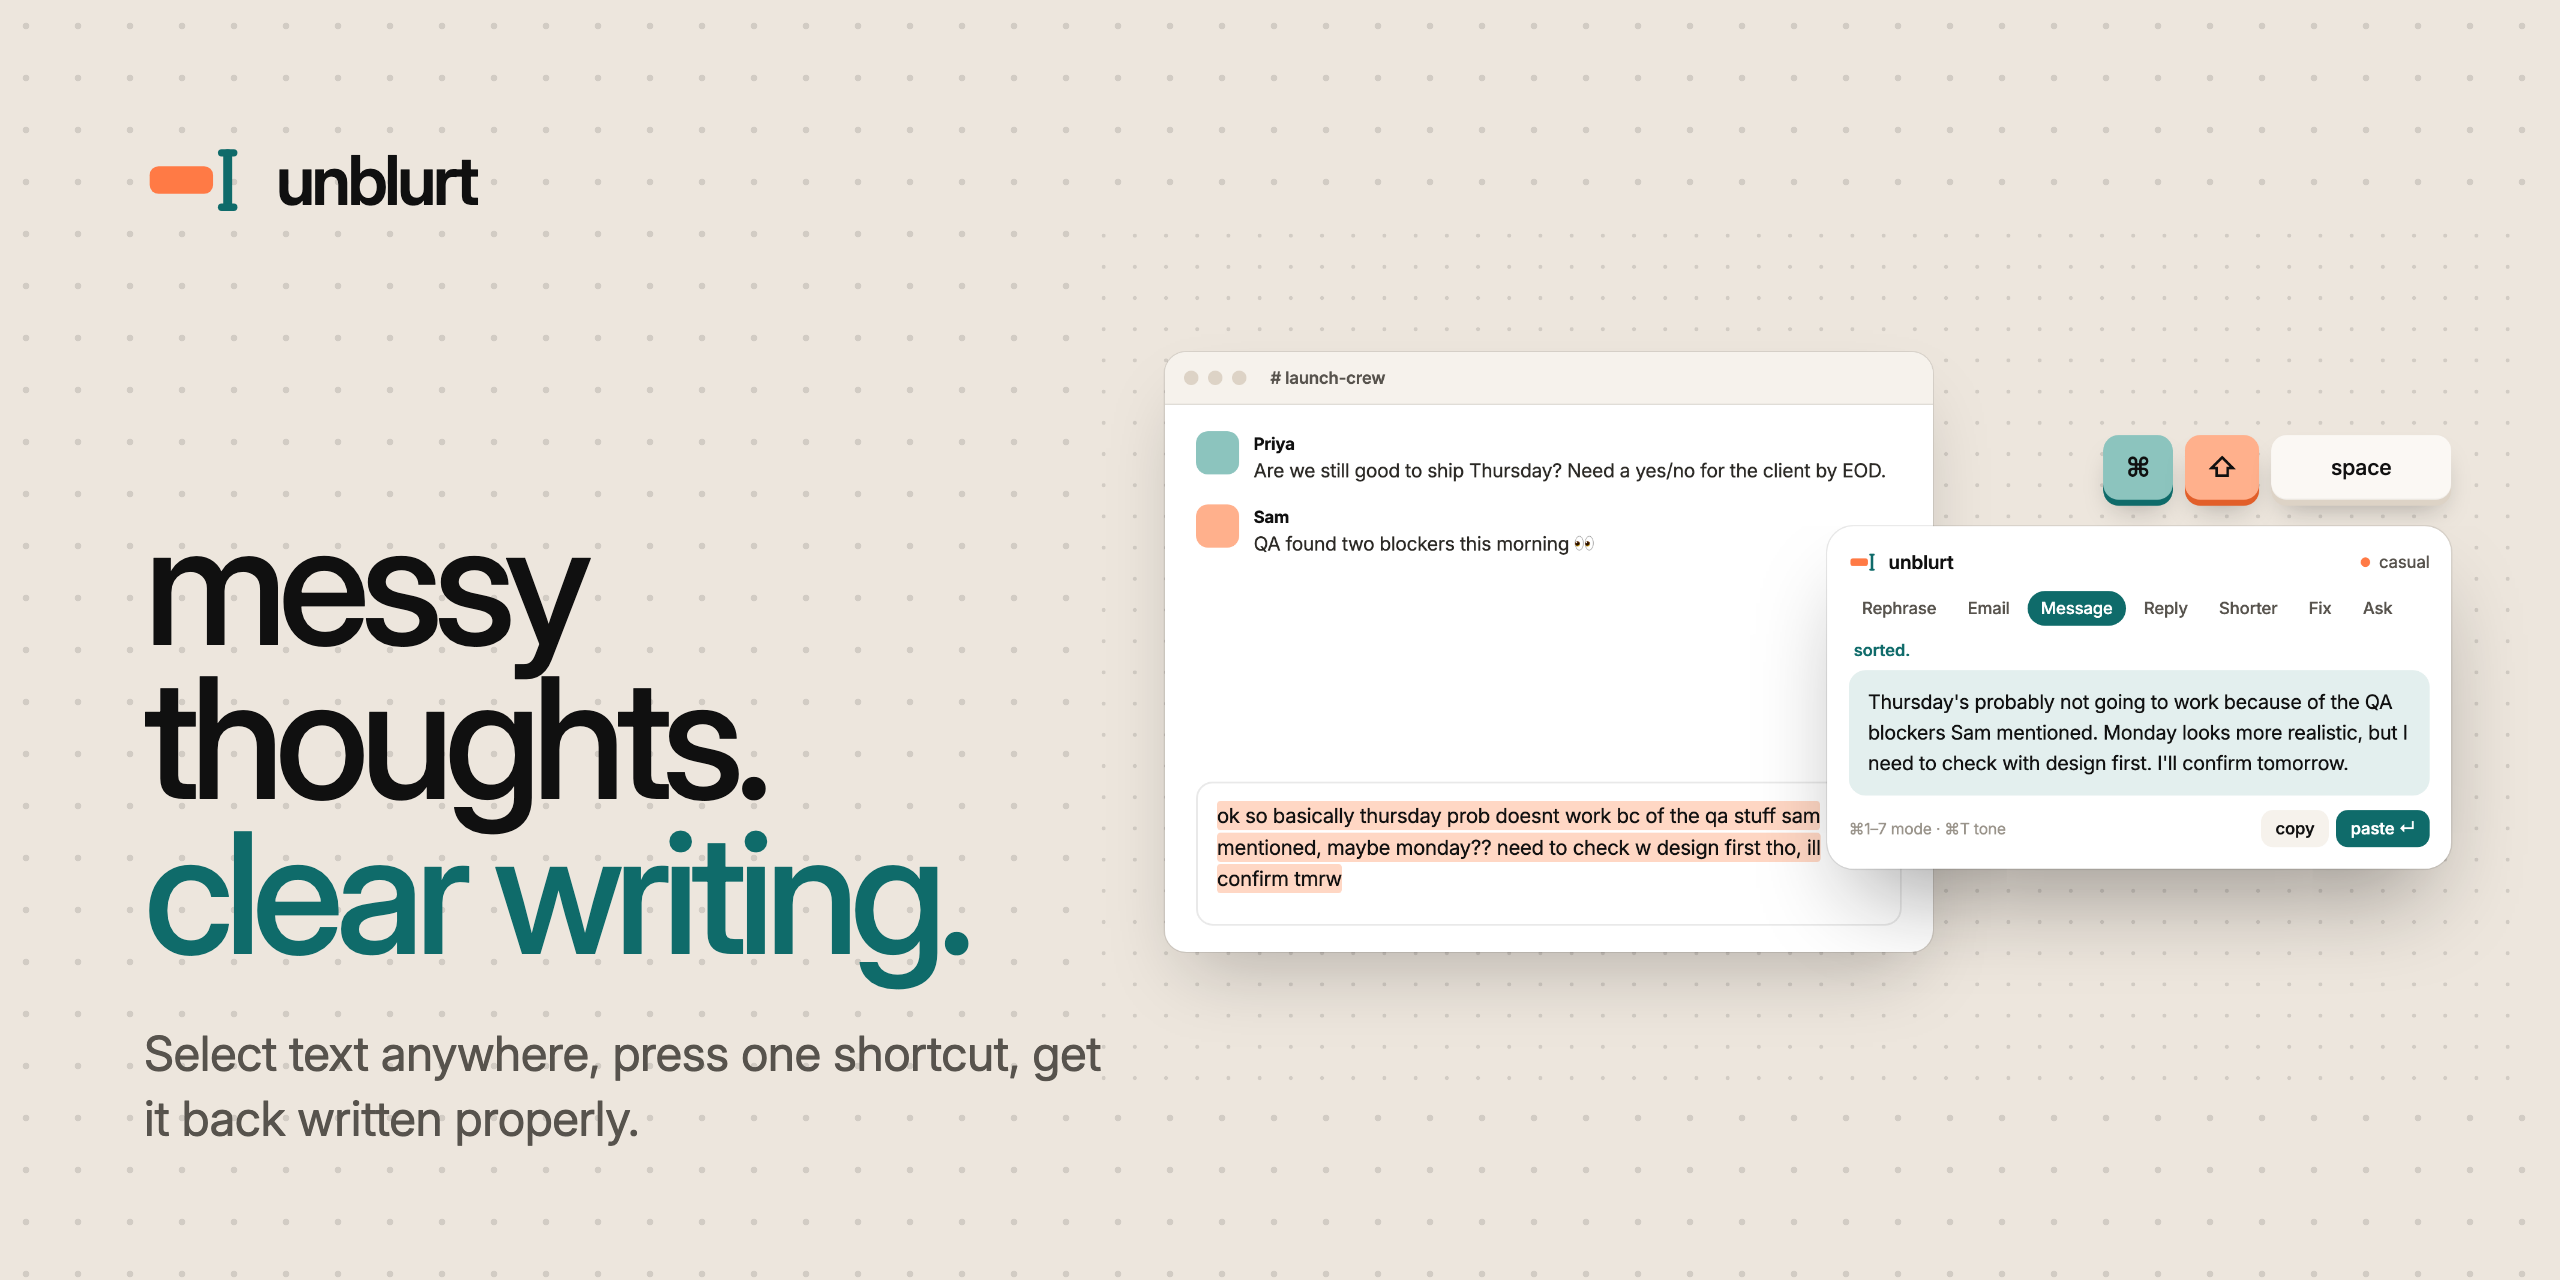
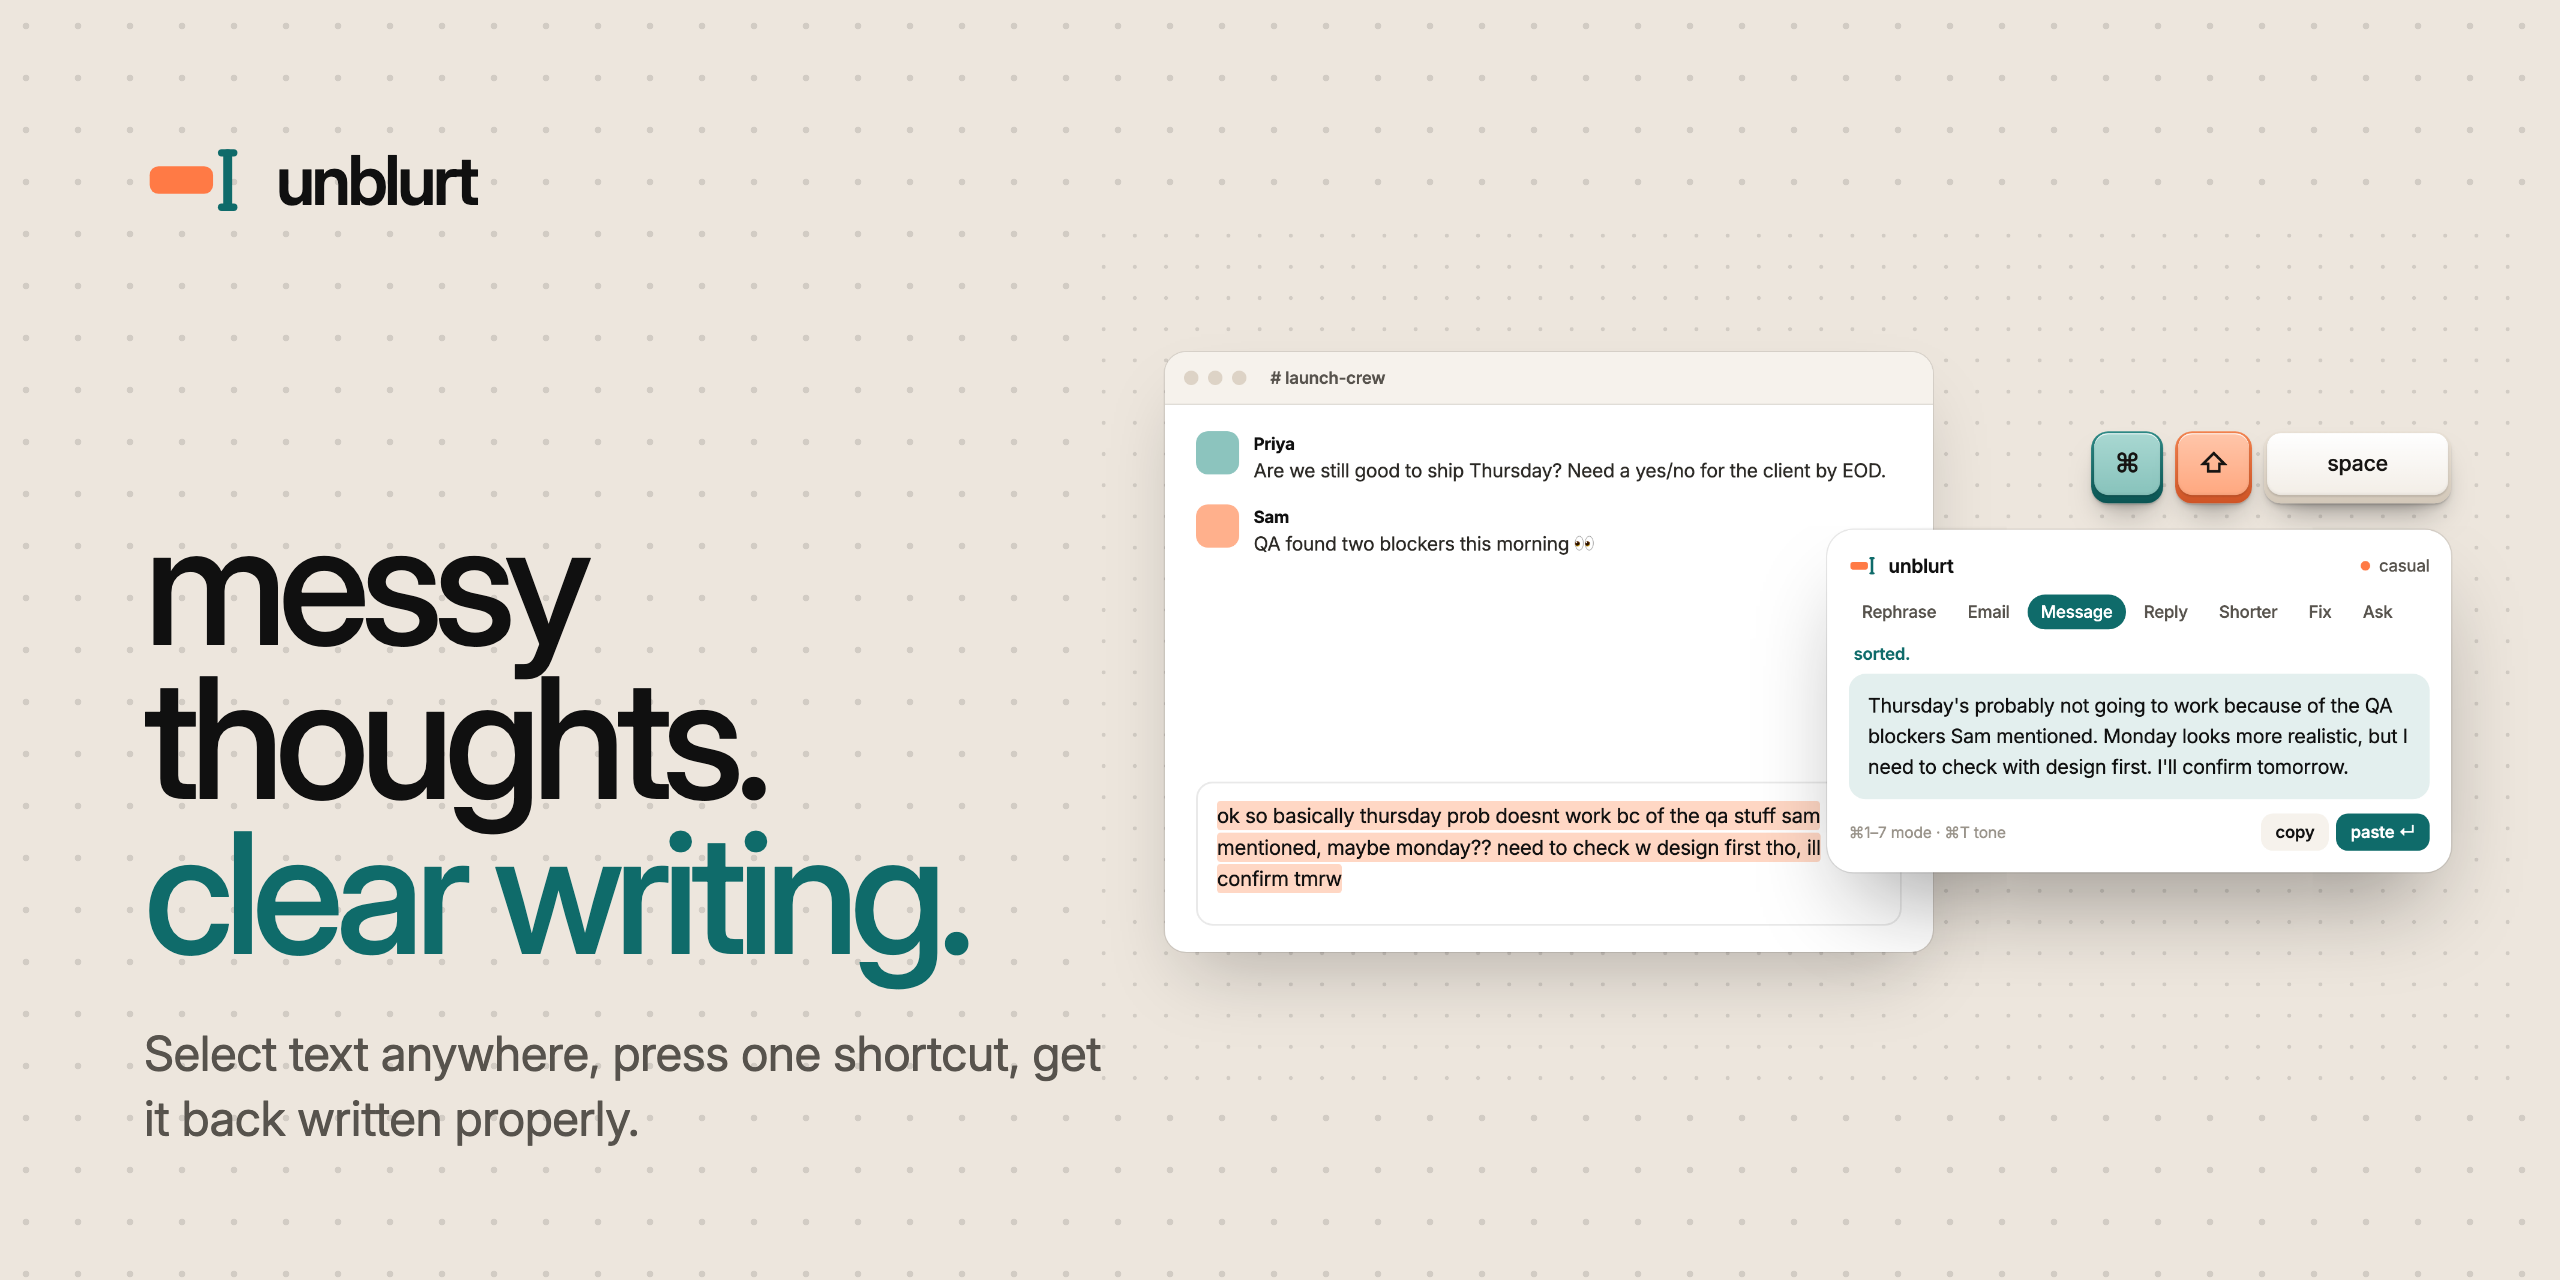
Site: one keycap style everywhere, scroll hint that never overlaps, polish
- All shortcut keys use the hero keycap style: the How it works steps use the
  full keys; inline keys (modes, download steps, FAQ) are a small version of
  them; the keys drawn in the product shots were re-rendered to match.
- Scroll hint: appears when the story scene locks in place, stays through the
  whole (now longer) opening beat, and leaves exactly when the first keys show,
  so they never overlap. Checked at 9 screen sizes. On phones held sideways it
  sits under the caption instead.
- Step 01's sample sentence wraps inside its box instead of running off it.
- Closing section no longer says 'Free while in beta' twice.

Changed region(s): [[0.7188, 0.4375, 0.9375, 0.6875], [0.8125, 0.3125, 0.9688, 0.4375], [0.75, 0.4062, 0.7812, 0.4375]]

diff --git a/apps/web/assets/site.css b/apps/web/assets/site.css
@@ -43,15 +43,20 @@ button { font: inherit; color: inherit; }
 
 .wrap { max-width: var(--max); margin: 0 auto; padding: 0 var(--gutter); }
 
+/* Inline shortcut keys: a small version of the hero keycaps (lit face on a darker skirt). */
 kbd {
-  font-family: var(--font);
-  font-size: 0.78em;
-  font-weight: 550;
-  padding: 2px 7px;
-  border-radius: 6px;
-  background: var(--stone-soft);
-  border: 1px solid var(--line);
-  border-bottom-width: 2px;
+  position: relative; isolation: isolate;
+  display: inline-flex; align-items: center; justify-content: center; gap: 1px;
+  min-width: 1.85em; height: 1.75em; padding: 0 0.48em 0.24em; margin: 0 0.06em;
+  border: 0; border-radius: 0.42em; vertical-align: 0.02em;
+  background: linear-gradient(180deg, #e7ded2, #cfc3b4);
+  box-shadow: 0 1px 1px rgba(16, 16, 16, 0.12), 0 3px 6px -3px rgba(16, 16, 16, 0.3);
+  font-family: var(--font); font-size: 0.8em; font-weight: 550; line-height: 1; color: #24201c; white-space: nowrap;
+}
+kbd::after {
+  content: ""; position: absolute; z-index: -1; inset: 1px 1.5px 0.24em; border-radius: 0.34em;
+  background: linear-gradient(180deg, #ffffff, #f2ece4);
+  box-shadow: inset 0 1px 0 rgba(255, 255, 255, 0.85), 0 0.5px 1px rgba(16, 16, 16, 0.14);
 }
 
 /* ---------- type ---------- */
@@ -261,7 +266,7 @@ section { scroll-margin-top: 64px; }
 @media (max-width: 1000px) { .modes-grid { grid-template-columns: repeat(2, 1fr); } }
 @media (max-width: 600px) { .modes-grid { grid-template-columns: 1fr; } .mode { min-height: 0; } }
 .mode.wide p { margin: 0; font-size: clamp(20px, 2.4vw, 28px); font-weight: 500; letter-spacing: -0.03em; }
-.mode.wide kbd { background: rgba(255, 255, 255, 0.14); color: #fff; border-color: rgba(255, 255, 255, 0.2); }
+.mode.wide kbd { box-shadow: 0 1px 1px rgba(0, 0, 0, 0.2), 0 4px 8px -3px rgba(0, 0, 0, 0.35); }
 
 /* ---------- steps / engine ---------- */
 
@@ -444,7 +449,8 @@ section { scroll-margin-top: 64px; }
 /* ---------- story (sticky scroll scene) ---------- */
 
 .story { background: #121212; color: #fff; }
-.story-track { position: relative; height: calc(100vh + 7 * 56vh); height: calc(100svh + 7 * 56svh); }
+/* 7 beats; the opening one is longer so the scroll hint gets a proper moment (see BEATS in site.js) */
+.story-track { position: relative; height: calc(100vh + 7.8 * 56vh); height: calc(100svh + 7.8 * 56svh); }
 .story-stage {
   position: sticky; top: 64px; height: calc(100vh - 64px); height: calc(100svh - 64px);
   display: flex; align-items: center; overflow: hidden;
@@ -578,12 +584,13 @@ section { scroll-margin-top: 64px; }
   -webkit-backdrop-filter: blur(12px); backdrop-filter: blur(12px);
   box-shadow: 0 12px 30px -12px rgba(0, 0, 0, 0.6);
   font-size: 13.5px; font-weight: 500; letter-spacing: -0.005em; color: rgba(255, 255, 255, 0.82); white-space: nowrap;
-  opacity: 0; transform: translate(-50%, 48px) scale(0.9); pointer-events: none;
+  --hx: -50%;
+  opacity: 0; transform: translate(var(--hx), 48px) scale(0.9); pointer-events: none;
   transition: opacity 0.45s, transform 0.6s cubic-bezier(0.2, 0.9, 0.3, 1.25);
 }
-.story-track.near .story-hint { opacity: 1; transform: translate(-50%, 0) scale(1); animation: hint-bob 2.4s 0.8s ease-in-out infinite; }
-.story-track.near.started .story-hint { opacity: 0; transform: translate(-50%, 48px) scale(0.9); animation: none; }
-@keyframes hint-bob { 50% { transform: translate(-50%, -5px) scale(1); } }
+.story-track.near .story-hint { opacity: 1; transform: translate(var(--hx), 0) scale(1); animation: hint-bob 2.4s 0.8s ease-in-out infinite; }
+.story-track.near.started .story-hint { opacity: 0; transform: translate(var(--hx), 48px) scale(0.9); animation: none; }
+@keyframes hint-bob { 50% { transform: translate(var(--hx), -5px) scale(1); } }
 .story-hint i { position: relative; width: 16px; height: 24px; border: 1.5px solid rgba(255, 255, 255, 0.5); border-radius: 8px; flex: none; }
 .story-hint i::after {
   content: ""; position: absolute; left: 50%; top: 5px; width: 3px; height: 5px; margin-left: -1.5px; border-radius: 2px;
@@ -591,7 +598,10 @@ section { scroll-margin-top: 64px; }
 }
 @keyframes hint-wheel { 0% { transform: translateY(0); opacity: 1; } 70% { transform: translateY(8px); opacity: 0; } 100% { transform: translateY(0); opacity: 0; } }
 @media (max-width: 860px) { .story-hint { font-size: 13px; padding: 7px 14px 7px 9px; } }
-@media (max-height: 520px) and (orientation: landscape) { .story-hint { bottom: 10px; } }
+/* phones held sideways: the window fills the bottom right, so the hint sits under the words instead */
+@media (max-height: 520px) and (orientation: landscape) {
+  .story-hint { --hx: 0; left: var(--gutter); bottom: 12px; font-size: 12.5px; padding: 6px 12px 6px 8px; }
+}
 
 .story-after { display: grid; grid-template-columns: minmax(0, 0.9fr) minmax(0, 1.1fr); gap: clamp(28px, 5vw, 80px); padding-block: clamp(40px, 6vw, 80px) clamp(72px, 10vw, 140px); }
 .story-body { grid-column: 2; }
@@ -788,3 +798,13 @@ section { scroll-margin-top: 64px; }
   .ways .keycaps { gap: 8px; }
   .ways .cap.sp { min-width: 104px; }
 }
+
+/* "How it works" steps: the same keycaps, sized for the little picture boxes */
+.step .art-mini .keycaps { padding: 0; cursor: default; }
+.step .art-mini .cap { cursor: default; }
+.cap.enter { min-width: 84px; font-size: 22px; }
+@media (max-width: 380px) { .step .art-mini .cap.sp { min-width: 104px; } }
+
+/* step 01's sample sentence: wraps inside its box instead of running off the edges */
+.step-sample { padding: 0 20px; text-align: center; font-size: 16.5px; line-height: 1.6; letter-spacing: -0.01em; max-width: 26ch; }
+.step-sample mark { background: #ffd7c4; color: inherit; padding: 2px 1px; border-radius: 3px; box-decoration-break: clone; -webkit-box-decoration-break: clone; }

diff --git a/apps/web/index.html b/apps/web/index.html
@@ -297,19 +297,19 @@
     <section class="section wrap" style="padding-top: 0">
       <div class="steps">
         <div class="step reveal">
-          <div class="art-mini"><span style="font-size: 17px; letter-spacing: -0.01em">ok so <span style="background: var(--persimmon-tint); padding: 3px 2px; border-radius: 3px">basically thursday prob</span> doesnt work</span></div>
+          <div class="art-mini"><span class="step-sample">ok so <mark>basically thursday prob</mark> doesnt work</span></div>
           <span class="num">01</span>
           <h3>Select.</h3>
           <p>Highlight text in any app: mail, chat, docs, a browser field. Or select nothing and just start typing.</p>
         </div>
         <div class="step reveal">
-          <div class="art-mini"><span style="display: flex; gap: 6px"><kbd data-mod>⌘</kbd><kbd>⇧</kbd><kbd>Space</kbd></span></div>
+          <div class="art-mini"><span class="keycaps"><span class="cap t"><span data-mod>⌘</span></span><span class="cap o">⇧</span><span class="cap sp">space</span></span></div>
           <span class="num">02</span>
           <h3>Press.</h3>
           <p>A small window pops up right where you're looking. Pick a mode, add a note if you want. Prefer the mouse? Drag the text onto the plate on the left edge of your screen.</p>
         </div>
         <div class="step reveal">
-          <div class="art-mini"><span style="display: flex; gap: 6px"><kbd>↵</kbd></span></div>
+          <div class="art-mini"><span class="keycaps"><span class="cap enter">↵</span></span></div>
           <span class="num">03</span>
           <h3>Enter.</h3>
           <p>Enter once to write it. Enter again to paste it back where it came from. Done.</p>
@@ -346,7 +346,7 @@
       </div>
       <div class="poster-bottom">
         <div class="hero-cta reveal">
-          <p class="lede">Free while in beta. macOS, Windows and Linux.</p>
+          <p class="lede">Works on macOS, Windows and Linux.</p>
           <div class="row"><a class="btn primary" href="download.html" data-os-cta>Download</a></div>
         </div>
         <p class="display reveal">mid-<br />sentence.</p>

diff --git a/brand/creatives/product.html b/brand/creatives/product.html
@@ -36,10 +36,11 @@ body.tall .pop{width:100%}
 /* right column: the shortcut sits above the popover it opens, both right-aligned */
 .side{position:absolute;right:64px;top:50%;transform:translateY(-50%);display:flex;flex-direction:column;align-items:flex-end;gap:22px}
 .keys{display:flex;gap:10px}
-kbd{font-family:inherit;font-size:22px;font-weight:500;line-height:1;min-width:58px;height:54px;display:grid;place-items:center;padding:0 18px;border-radius:13px;background:#FBF8F4;box-shadow:inset 0 -1px 0 rgba(16,16,16,.04),0 5px 0 #DDD3C6,0 14px 24px -10px rgba(16,16,16,.35)}
-kbd.t{background:#8CC4BE;box-shadow:0 5px 0 #0F6B6A,0 14px 24px -10px rgba(16,16,16,.35)}
-kbd.o{background:#FFB08C;box-shadow:0 5px 0 #E25F2A,0 14px 24px -10px rgba(16,16,16,.35)}
-kbd.sp{min-width:150px;font-size:18px}
+kbd{--fh:#fff;--fl:#f3eee7;--wh:#e9e1d6;--wl:#d3c8b9;--d:7px;position:relative;isolation:isolate;display:grid;place-items:center;font-family:inherit;font-size:22px;font-weight:500;line-height:1;color:#161412;min-width:60px;height:60px;padding:0 19px var(--d);border-radius:14px;background:linear-gradient(180deg,var(--wh),var(--wl));box-shadow:0 1px 1px rgba(16,16,16,.12),0 4px 6px -2px rgba(16,16,16,.16),0 16px 28px -14px rgba(16,16,16,.5)}
+kbd::after{content:"";position:absolute;z-index:-1;inset:1.5px 2.5px var(--d);border-radius:11.5px;background:linear-gradient(180deg,var(--fh),var(--fl));box-shadow:inset 0 1px 0 rgba(255,255,255,.8),inset 0 -1px 2px rgba(16,16,16,.06),0 1px 1.5px rgba(16,16,16,.14)}
+kbd.t{--fh:#a9d8d2;--fl:#88c3bc;--wh:#2f8a86;--wl:#0b5554}
+kbd.o{--fh:#ffc6aa;--fl:#ffa880;--wh:#f2834f;--wl:#cf5426}
+kbd.sp{min-width:156px;font-size:18px}
 
 /* unblurt popover */
 .pop{position:relative;width:520px;background:#fff;border-radius:22px;padding:18px;display:flex;flex-direction:column;gap:12px;box-shadow:0 40px 80px -24px rgba(16,16,16,.4),0 0 0 1px var(--line)}

diff --git a/apps/web/assets/site.js b/apps/web/assets/site.js
@@ -112,8 +112,8 @@
       if (b === beat) return;
       beat = b;
       vis.dataset.beat = String(b);
-      // the scroll hint stays up for the first few steps, so a small scroll doesn't chase it away
-      track.classList.toggle("started", b >= 3);
+      // the hint leaves when the first keys appear (beat 1), so the two never overlap
+      track.classList.toggle("started", b >= 1);
       vis.dataset.app = APP[b];
       wordEls.forEach((w) => {
         const i = Number(w.dataset.w);
@@ -132,15 +132,28 @@
       requestAnimationFrame(() => place(b));
     };
 
+    // How long each beat lasts, in screens of scrolling. The opening beat is longer: it's where
+    // the scroll hint shows, and a small scroll shouldn't end it. Must add up to the 7.8 in site.css.
+    const BEATS = [1.8, 1, 1, 1, 1, 1, 1];
+    const TOTAL = BEATS.reduce((a, b) => a + b, 0);
+    const beatAt = (p) => {
+      let edge = 0;
+      for (let i = 0; i < BEATS.length; i++) {
+        edge += BEATS[i] / TOTAL;
+        if (p < edge) return i;
+      }
+      return BEATS.length - 1;
+    };
+
     let ticking = false;
     const onScroll = () => {
       ticking = false;
       const r = track.getBoundingClientRect();
       const run = r.height - stage.offsetHeight;
       const p = Math.min(1, Math.max(0, -r.top / run));
-      // the hint bubble rises once the scene has pinned to the screen
-      track.classList.toggle("near", r.top <= innerHeight * 0.5 && r.bottom > innerHeight);
-      apply(Math.min(6, Math.floor(p * 7)));
+      // the hint rises once the scene has locked into place
+      track.classList.toggle("near", r.top <= 70 && r.bottom > innerHeight);
+      apply(beatAt(p));
     };
     addEventListener("scroll", () => ticking || ((ticking = true), requestAnimationFrame(onScroll)), { passive: true });
     addEventListener("resize", () => place(beat));
